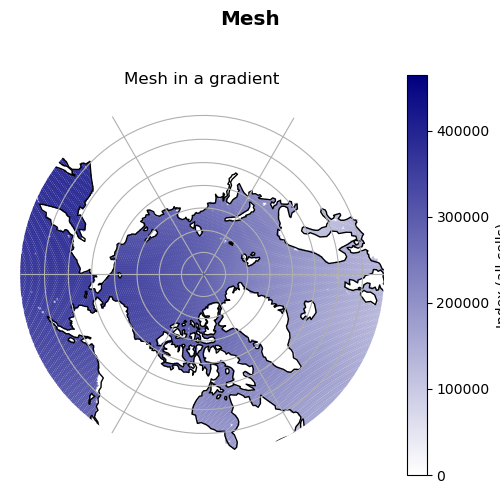
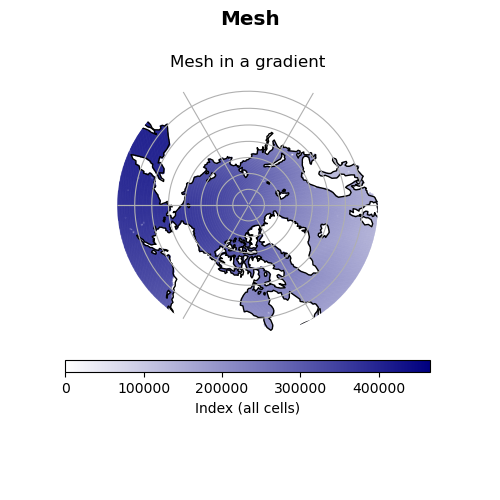
mesh map binned by color

diff --git a/MAP_ANIMATION_GENERATION/map_gen_utility_functions.py b/MAP_ANIMATION_GENERATION/map_gen_utility_functions.py
@@ -14,6 +14,7 @@ import matplotlib as mpl
 import matplotlib.path as mpath
 import matplotlib.pyplot as plt     # For plotting
 from matplotlib.colors import LinearSegmentedColormap
+from matplotlib.colors import ListedColormap, BoundaryNorm
 
 # Cartopy for map features, like land and ocean
 import cartopy.crs as ccrs
@@ -21,6 +22,106 @@ import cartopy.feature as cfeature
 
 from MAP_ANIMATION_GENERATION.map_label_utility_functions import *
 from config import *
+
+def make_circle():
+    """ Use this with Cartopy to make a circular map of the globe, 
+    rather than a rectangular map. """
+    theta = np.linspace(0, 2*np.pi, 100)
+    center, radius = [0.5, 0.5], 0.5
+    verts = np.vstack([np.sin(theta), np.cos(theta)]).T
+    return mpath.Path(verts * radius + center)
+
+def add_map_features(my_map, oceanFeature=OCEANFEATURE, landFeature=LANDFEATURE, grid=GRIDON, coastlines=COASTLINES):
+    """ Set optional features on the map """
+    if (oceanFeature == 1):
+        my_map.add_feature(cfeature.OCEAN)
+
+    if (landFeature == 1):
+        my_map.add_feature(cfeature.LAND)
+
+    if (grid == 1):
+        my_map.gridlines()
+
+    if (coastlines == 1):
+        my_map.coastlines()
+
+def add_polar_labels(ax, hemisphere='north'):
+    gl = ax.gridlines(draw_labels=True, linestyle='--', color='gray', alpha=0.5)
+    gl.xlabels_top = False
+    gl.xlabels_bottom = False
+    gl.ylabels_left = False
+    gl.ylabels_right = False
+    gl.xlabel_style = {'size': 8}
+
+    # Enable longitude labels (around the circle)
+    if hemisphere == 'north':
+        gl.xlabels_top = True  # show on top
+    elif hemisphere == 'south':
+        gl.xlabels_bottom = True  # show on bottom
+
+def generate_axes_north_pole():
+    """ Return a figure and axes (map) to use for plotting data for the North Pole. """
+
+    fig = plt.figure(figsize=[5, 5]) #north pole only
+    
+    # Define projections for each map.
+    map_projection_north = ccrs.NorthPolarStereo(central_longitude=270, globe=None)
+    
+    # Create an axes for a map of the Arctic on the figure
+    northMap = fig.add_subplot(1, 1, 1, projection=map_projection_north)
+    return fig, northMap
+
+def generate_axes_north_and_south_pole():
+    """ Return a figure and axes (maps) to use for plotting data for the North and South Poles. """
+    fig = plt.figure(figsize=[10, 5]) #both north and south pole
+    
+    # Define projections for each map.
+    map_projection_north = ccrs.NorthPolarStereo(central_longitude=270, globe=None)
+    map_projection_south = ccrs.SouthPolarStereo(central_longitude=0, globe=None)
+
+    # Create the two maps as subplots of the figure.
+    northMap = fig.add_subplot(1, 2, 1, projection=map_projection_north)
+    southMap = fig.add_subplot(1, 2, 2, projection=map_projection_south)
+
+    return fig, northMap, southMap
+    
+def generate_axes_all_projections():
+    """Return a figure and six axes with different projections in a 3x2 layout."""
+
+    fig = plt.figure(figsize=(12, 15))  # Taller to accommodate more rows
+
+    # Define projections
+    north_proj = ccrs.NorthPolarStereo(central_longitude=270)
+    south_proj = ccrs.SouthPolarStereo(central_longitude=90)
+    #plate_proj = ccrs.PlateCarree()
+    robinson_proj = ccrs.Robinson()
+    ortho1_proj = ccrs.Orthographic(central_longitude=0, central_latitude=0) # changed latitude from 20
+    ortho2_proj = ccrs.Orthographic(central_longitude=-90, central_latitude=0)
+    ortho3_proj = ccrs.Orthographic(central_longitude=180, central_latitude=0)
+    
+
+    # Subplot layout:
+    # 1 | 2
+    # 3 | 4
+    # 5 | 6
+    ax1 = fig.add_subplot(3, 2, 1, projection=north_proj)
+    ax2 = fig.add_subplot(3, 2, 2, projection=south_proj)
+    ax3 = fig.add_subplot(3, 2, 3, projection=robinson_proj)
+    ax4 = fig.add_subplot(3, 2, 4, projection=ortho1_proj)
+    ax5 = fig.add_subplot(3, 2, 5, projection=ortho2_proj)
+    ax6 = fig.add_subplot(3, 2, 6, projection=ortho3_proj)
+
+    # Set titles
+    ax1.set_title("North Polar Stereo")
+    ax2.set_title("South Polar Stereo")
+    ax3.set_title("Robinson Projection of Earth")
+    ax4.set_title("Orthographic at 0 longitude")
+    ax5.set_title("Orthographic at -90 longitude")
+    ax6.set_title("Orthographic at 180 longitude")
+
+    plt.tight_layout()
+    return fig, [ax1, ax2, ax3, ax4, ax5, ax6]
+
 
 def map_hemisphere_north(latCell, lonCell, variableToPlot1D, title, hemisphereMap, dot_size=DOT_SIZE):
     """ Map the northern hemisphere onto a matplotlib figure. 
@@ -109,7 +210,7 @@ def map_lats_lons_gradient_by_index(fig, latCell, lonCell, hemisphereMap, dot_si
     filtered_indices = all_indices[mask]  # These are the indices to be color-mapped
 
     # Adjust layout
-    fig.subplots_adjust(bottom=0.05, top=0.85, left=0.04, right=0.95, wspace=0.02)
+    fig.subplots_adjust(bottom=0.25, top=0.85, left=0.04, right=0.95, wspace=0.02)
     hemisphereMap.set_extent([MINLONGITUDE, MAXLONGITUDE, LAT_LIMIT, NORTHPOLE], ccrs.PlateCarree())
     add_map_features(hemisphereMap)
     hemisphereMap.set_boundary(make_circle(), transform=hemisphereMap.transAxes)
@@ -125,8 +226,17 @@ def map_lats_lons_gradient_by_index(fig, latCell, lonCell, hemisphereMap, dot_si
     # Colorbar setup (based on the full index range)
     sm = mpl.cm.ScalarMappable(cmap=cmap, norm=norm)
     sm.set_array(all_indices)
-    plt.colorbar(sm, ax=hemisphereMap, orientation='vertical', label='Index (all cells)')
-
+    
+    # Create colorbar for the whole figure 
+    cbar = fig.colorbar(sm, ax=[hemisphereMap],
+                        orientation='horizontal',  # or 'vertical'
+                        fraction=0.05,  # size of the colorbar
+                        pad=0.08,       # space between colorbar and subplots
+                        shrink=0.8,     # shrink the bar to fit nicely
+                        aspect=30,      # width of colorbar
+                        location='bottom',  # try 'bottom' or 'right'
+                        label='Index (all cells)')
+        
     hemisphereMap.set_title("Mesh in a gradient")
     hemisphereMap.axis('off')
     plt.suptitle("Mesh", size="x-large", fontweight="bold")
@@ -135,7 +245,7 @@ def map_lats_lons_gradient_by_index(fig, latCell, lonCell, hemisphereMap, dot_si
 
     return sc
 
-def map_all_lats_lons_gradient_by_index(fig, latCell, lonCell, northMap, southMap, plateCar, rotPole, dot_size=DOT_SIZE):
+def map_all_lats_lons_gradient_by_index(fig, latCell, lonCell, northMap, southMap, plateCar, orthoMap, robinMap, rotPolMap, dot_size=DOT_SIZE):
     """ Map points with a gradient from white to dark, scaled across all cells. """
 
     # Create global index array based on all cells
@@ -157,11 +267,17 @@ def map_all_lats_lons_gradient_by_index(fig, latCell, lonCell, northMap, southMa
     add_map_features(northMap)
     add_map_features(southMap)
     add_map_features(plateCar)
-    add_map_features(rotPole)
-    
+    add_map_features(orthoMap)
+    add_map_features(robinMap)
+    add_map_features(rotPolMap)
+
     # Crop the map to be round instead of rectangular.
     northMap.set_boundary(make_circle(), transform=northMap.transAxes)
     southMap.set_boundary(make_circle(), transform=southMap.transAxes)
+    #orthoPole.set_boundary(make_circle(), transform=orthoPole.transAxes)
+
+    add_polar_labels(northMap, hemisphere='north')
+    add_polar_labels(southMap, hemisphere='south')
 
     # Plot the points
     northPoleScatter = northMap.scatter(lonCell, latCell,
@@ -185,7 +301,20 @@ def map_all_lats_lons_gradient_by_index(fig, latCell, lonCell, northMap, southMa
                                norm=norm,
                                transform=ccrs.PlateCarree())
 
-    rotPolScatter = rotPole.scatter(lonCell, latCell,
+    orthoMapScatter = orthoMap.scatter(lonCell, latCell,
+                               s=DOT_SIZE,
+                               c=all_indices,
+                               cmap=cmap,
+                               norm=norm,
+                               transform=ccrs.PlateCarree())
+
+    robinMapScatter = robinMap.scatter(lonCell, latCell,
+                               s=DOT_SIZE,
+                               c=all_indices,
+                               cmap=cmap,
+                               norm=norm,
+                               transform=ccrs.PlateCarree())
+    rotPolMapScatter = rotPolMap.scatter(lonCell, latCell,
                                s=DOT_SIZE,
                                c=all_indices,
                                cmap=cmap,
@@ -197,7 +326,7 @@ def map_all_lats_lons_gradient_by_index(fig, latCell, lonCell, northMap, southMa
     sm.set_array(all_indices)
     
     # Create colorbar for the whole figure 
-    cbar = fig.colorbar(sm, ax=[northMap, southMap, plateCar, rotPole],
+    cbar = fig.colorbar(sm, ax=[northMap, southMap, plateCar, orthoMap, robinMap, rotPolMap],
                         orientation='horizontal',  # or 'vertical'
                         fraction=0.05,  # size of the colorbar
                         pad=0.08,       # space between colorbar and subplots
@@ -210,85 +339,81 @@ def map_all_lats_lons_gradient_by_index(fig, latCell, lonCell, northMap, southMa
     plt.savefig("mesh_color_all.png")
     plt.close(fig)
     
-    return northPoleScatter, southPoleScatter, plateCarScatter, rotPolScatter
+    return northPoleScatter, southPoleScatter, plateCarScatter, orthoMapScatter, robinMapScatter, rotPolMapScatter
 
-def make_circle():
-    """ Use this with Cartopy to make a circular map of the globe, 
-    rather than a rectangular map. """
-    theta = np.linspace(0, 2*np.pi, 100)
-    center, radius = [0.5, 0.5], 0.5
-    verts = np.vstack([np.sin(theta), np.cos(theta)]).T
-    return mpath.Path(verts * radius + center)
+def map_all_lats_lons_binned_by_index(fig, latCell, lonCell, northMap, southMap, plateCar, orthoMap, robinMap, rotPolMap, dot_size=DOT_SIZE):
+    """ Map points with discrete color bins based on index range. """
 
-def add_map_features(my_map, oceanFeature=OCEANFEATURE, landFeature=LANDFEATURE, grid=GRIDON, coastlines=COASTLINES):
-    """ Set optional features on the map """
-    if (oceanFeature == 1):
-        my_map.add_feature(cfeature.OCEAN)
+    # Create global index array
+    all_indices = np.arange(len(latCell))
 
-    if (landFeature == 1):
-        my_map.add_feature(cfeature.LAND)
+    # Define bin boundaries and colors
+    boundaries = [0, 100000, 200000, 300000, 400000, len(latCell)]
+    colors = ["#e41a1c", "#377eb8", "#4daf4a", "#984ea3", "#ff7f00"]  # 5 distinct bins/colors
 
-    if (grid == 1):
-        my_map.gridlines()
+    # Assign each index to a bin
+    bin_indices = np.digitize(all_indices, boundaries) - 1  # subtract 1 to index into `colors`
 
-    if (coastlines == 1):
-        my_map.coastlines()
+    # Set up discrete colormap
+    cmap = ListedColormap(colors)
+    norm = BoundaryNorm(boundaries, ncolors=cmap.N)
 
-def generate_axes_north_pole():
-    """ Return a figure and axes (map) to use for plotting data for the North Pole. """
-
-    fig = plt.figure(figsize=[5, 5]) #north pole only
+    scatter_colors = [colors[i] for i in bin_indices]
     
-    # Define projections for each map.
-    map_projection_north = ccrs.NorthPolarStereo(central_longitude=270, globe=None)
+
+    # Adjust margins
+    fig.subplots_adjust(bottom=0.05, top=0.85, left=0.04, right=0.95, wspace=0.02)
     
-    # Create an axes for a map of the Arctic on the figure
-    northMap = fig.add_subplot(1, 1, 1, projection=map_projection_north)
-    return fig, northMap
-
-def generate_axes_north_and_south_pole():
-    """ Return a figure and axes (maps) to use for plotting data for the North and South Poles. """
-    fig = plt.figure(figsize=[10, 5]) #both north and south pole
+    # Set map extents
+    northMap.set_extent([MINLONGITUDE, MAXLONGITUDE, LAT_LIMIT, NORTHPOLE], ccrs.PlateCarree())
+    southMap.set_extent([MINLONGITUDE, MAXLONGITUDE, -LAT_LIMIT, SOUTHPOLE], ccrs.PlateCarree())
     
-    # Define projections for each map.
-    map_projection_north = ccrs.NorthPolarStereo(central_longitude=270, globe=None)
-    map_projection_south = ccrs.SouthPolarStereo(central_longitude=0, globe=None)
+    # Add features
+    for ax in [northMap, southMap, plateCar, orthoMap, robinMap, rotPolMap]:
+        add_map_features(ax)
 
-    # Create the two maps as subplots of the figure.
-    northMap = fig.add_subplot(1, 2, 1, projection=map_projection_north)
-    southMap = fig.add_subplot(1, 2, 2, projection=map_projection_south)
+    # Round map edges
+    northMap.set_boundary(make_circle(), transform=northMap.transAxes)
+    southMap.set_boundary(make_circle(), transform=southMap.transAxes)
 
-    return fig, northMap, southMap
+    # Add polar labels
+    add_polar_labels(northMap, hemisphere='north')
+    add_polar_labels(southMap, hemisphere='south')
+
+    # Plot on all maps using binned indices
+    scatters = []
+    for ax in [northMap, southMap, plateCar, orthoMap, robinMap, rotPolMap]:
+        sc = ax.scatter(lonCell, latCell,
+                        s=dot_size,
+                        c=scatter_colors,
+                        cmap=cmap,
+                        norm=norm,
+                        transform=ccrs.PlateCarree())
+        scatters.append(sc)
+
+    # Create unified colorbar
+    cbar = fig.colorbar(mpl.cm.ScalarMappable(cmap=cmap, norm=norm),
+                        ax=[northMap, southMap, plateCar, orthoMap, robinMap, rotPolMap],
+                        orientation='horizontal',
+                        fraction=0.05,
+                        pad=0.08,
+                        shrink=0.8,
+                        aspect=30,
+                        location='bottom')
+
+    # Calculate bin centers for labels
+    bin_centers = [(boundaries[i] + boundaries[i+1]) / 2 for i in range(len(boundaries)-1)]
+    cbar.set_ticks(bin_centers)
     
-def generate_axes_all_projections():
-    """Return a figure and four axes with different projections in a 2x2 layout."""
+    cbar.set_ticklabels(['0–99k', '100k–199k', '200k–299k', '300k–399k', '400k+'])
+    cbar.set_label('Index Ranges')
 
-    fig = plt.figure(figsize=(10, 10))  # Adjust size as needed
+    # Final touches
+    plt.suptitle("Mesh by Index Ranges", size="x-large", fontweight="bold")
+    plt.savefig("mesh_color_all_binned.png")
+    plt.close(fig)
 
-    # Projections
-    north_proj = ccrs.NorthPolarStereo(central_longitude=270)
-    south_proj = ccrs.SouthPolarStereo(central_longitude=90)
-    plate_proj = ccrs.PlateCarree()
-    rotated_proj = ccrs.RotatedPole(pole_longitude=180, pole_latitude=35)
-
-    # Subplot layout:
-    # 1 | 2
-    # -----
-    # 3 | 4
-
-    ax1 = fig.add_subplot(2, 2, 1, projection=north_proj)
-    ax2 = fig.add_subplot(2, 2, 2, projection=south_proj)
-    ax3 = fig.add_subplot(2, 2, 3, projection=plate_proj)
-    ax4 = fig.add_subplot(2, 2, 4, projection=rotated_proj)
-
-    # Set titles
-    ax1.set_title("North Polar Stereo")
-    ax2.set_title("South Polar Stereo")
-    ax3.set_title("Plate Carree")
-    ax4.set_title("Rotated Pole")
-
-    plt.tight_layout()
-    return fig, [ax1, ax2, ax3, ax4]
+    return tuple(scatters)
 
 def generate_maps_north_and_south(fig, northMap, southMap, latCell, lonCell, variableToPlot1D, mapImageFileName, 
                                   colorBarOn=COLORBARON, grid=GRIDON,

diff --git a/generate_mesh_map.py b/generate_mesh_map.py
@@ -8,15 +8,21 @@ def main():
     # Load the mesh and data to plot.
     latCell, lonCell = load_mesh(perlmutterpathMesh)
 
+    print("Number of Cells", len(latCell))
+
+    '''
     fig, northMap = generate_axes_north_pole() 
     map_lats_lons_gradient_by_index(fig, latCell, lonCell, northMap)
 
     fig, northMap = generate_axes_north_pole()
     map_lats_lons_one_color(fig, latCell, lonCell, northMap)
 
-    fig, [northMap, southMap, plateCar, rotPole]  = generate_axes_all_projections()
-    map_all_lats_lons_gradient_by_index(fig, latCell, lonCell, northMap, southMap, plateCar, rotPole)
+    fig, [northMap, southMap, plateCar, orthoMap, robinMap, rotPolMap]  = generate_axes_all_projections()
+    map_all_lats_lons_gradient_by_index(fig, latCell, lonCell, northMap, southMap, plateCar, orthoMap, robinMap, rotPolMap) 
+    '''
 
+    fig, [northMap, southMap, plateCar, orthoMap, robinMap, rotPolMap]  = generate_axes_all_projections()
+    map_all_lats_lons_binned_by_index(fig, latCell, lonCell, northMap, southMap, plateCar, orthoMap, robinMap, rotPolMap) 
 
 if __name__ == "__main__":
     main()

diff --git a/config.py b/config.py
@@ -52,7 +52,7 @@ LAT_LIMIT       =  50  # Good wide view for the north and south poles for E3SM d
 # Change if you want larger or smaller dots for the scatterplot
 #DOT_SIZE        = 0.4  # Good for the ice area variable
 #DOT_SIZE        = 7.0  # Good for satellite tracks
-DOT_SIZE        = 0.1
+DOT_SIZE        = 0.05 # Good for mesh
 
 # Change if you want to downsample the amount of data by a certain factor
 DEFAULT_DOWNSAMPLE_FACTOR = 100
